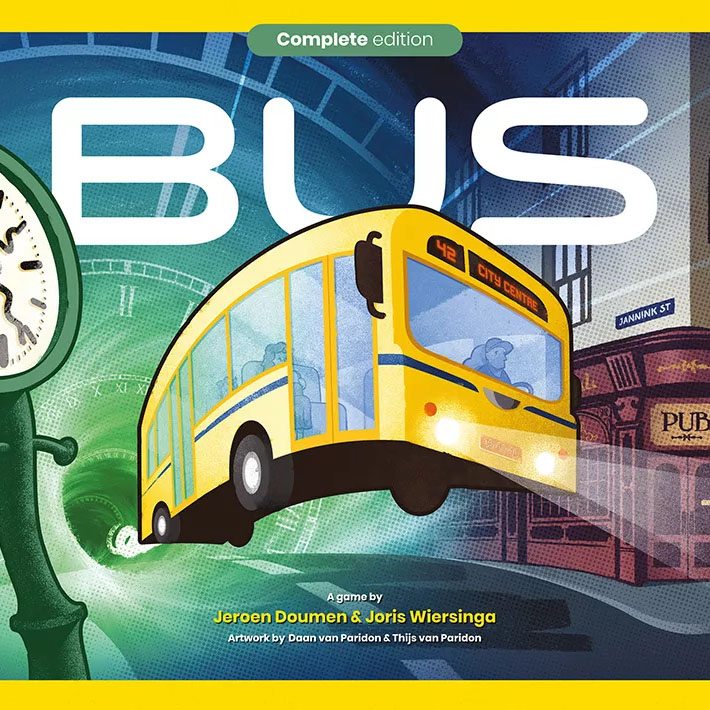
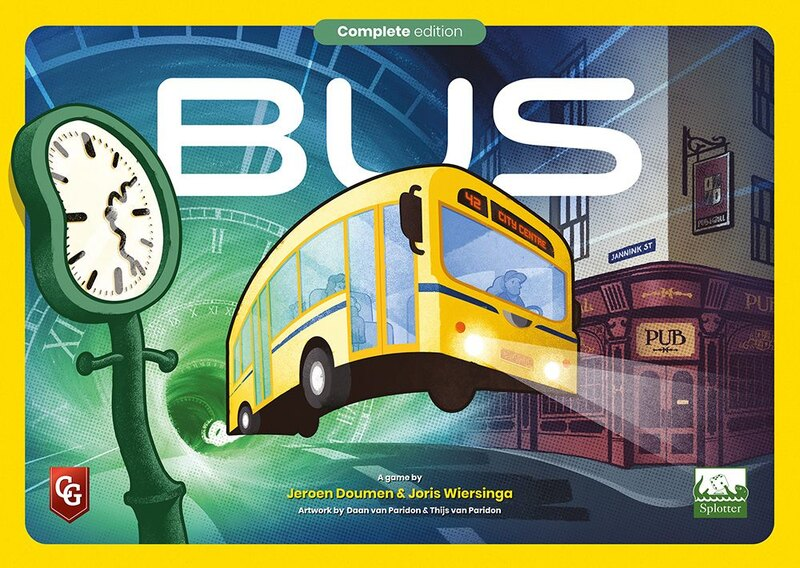
Use uncropped Bus and Indonesia covers
Replace the square-cropped covers with the full landscape box fronts from
BoardGameGeek, sized to 800px wide for the title page on 2x screens. The
landing hero no longer crops its featured covers to squares, and widens and
repositions the two landscape covers to keep the group balanced.

diff --git a/apps/frontend/src/lib/components/LandingPage.svelte b/apps/frontend/src/lib/components/LandingPage.svelte
@@ -291,21 +291,24 @@
     }
 
     .featured-cover img {
+        display: block;
         width: 100%;
-        aspect-ratio: 1;
-        object-fit: cover;
+        height: auto;
         border-radius: 5px;
         border: 1px solid #ffffff26;
     }
 
     .featured-cover[data-game='bus'] {
-        left: 1%;
+        width: 50%;
+        left: -3%;
+        top: 30%;
         transform: rotate(-16deg);
     }
 
     .featured-cover[data-game='indonesia'] {
-        left: 29%;
-        top: 10%;
+        width: 50%;
+        left: 27%;
+        top: 4%;
         z-index: 2;
         transform: rotate(3deg);
     }
